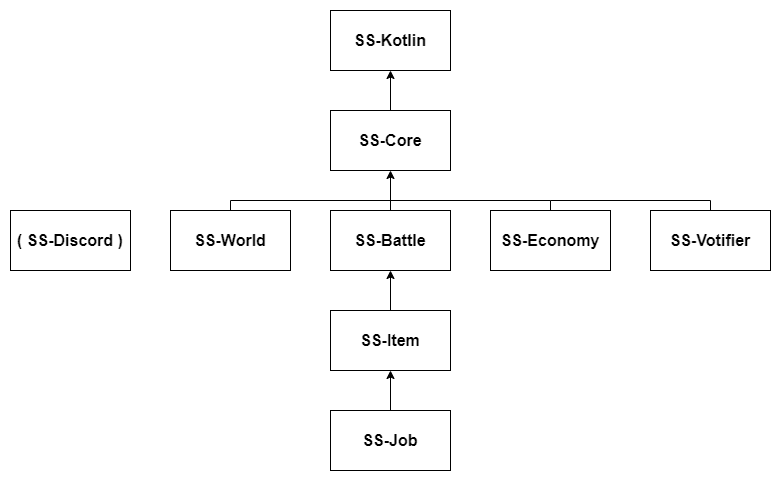
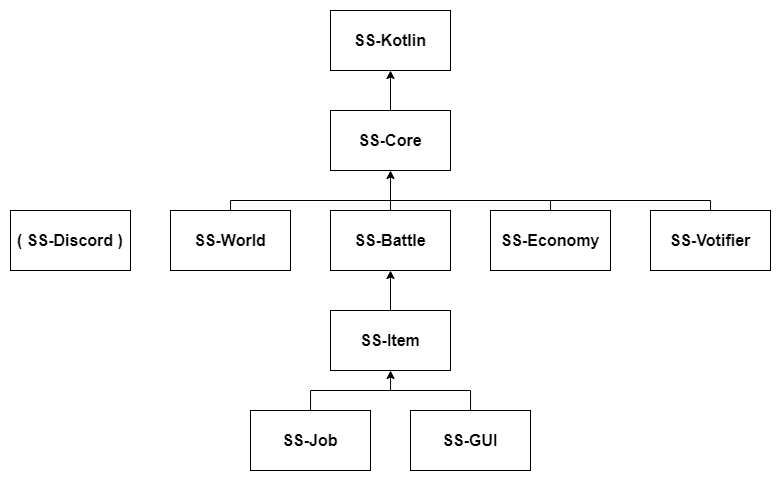
SS-GUI を追加

diff --git a/README.md b/README.md
@@ -12,6 +12,7 @@
 ### - [SS-Battle](https://github.com/sya-ri/SS-Battle)
 ### - [SS-Item](https://github.com/sya-ri/SS-Item)
 ### - [SS-Job](https://github.com/sya-ri/SS-Job)
+### - [SS-GUI](https://github.com/sya-ri/SS-GUI)
 ### - [SS-Economy](https://github.com/sya-ri/SS-Economy)
 ### - [SS-Votifier](https://github.com/sya-ri/SS-Votifier)
 ### - [SS-Discord](https://github.com/sya-ri/SS-Discord)
